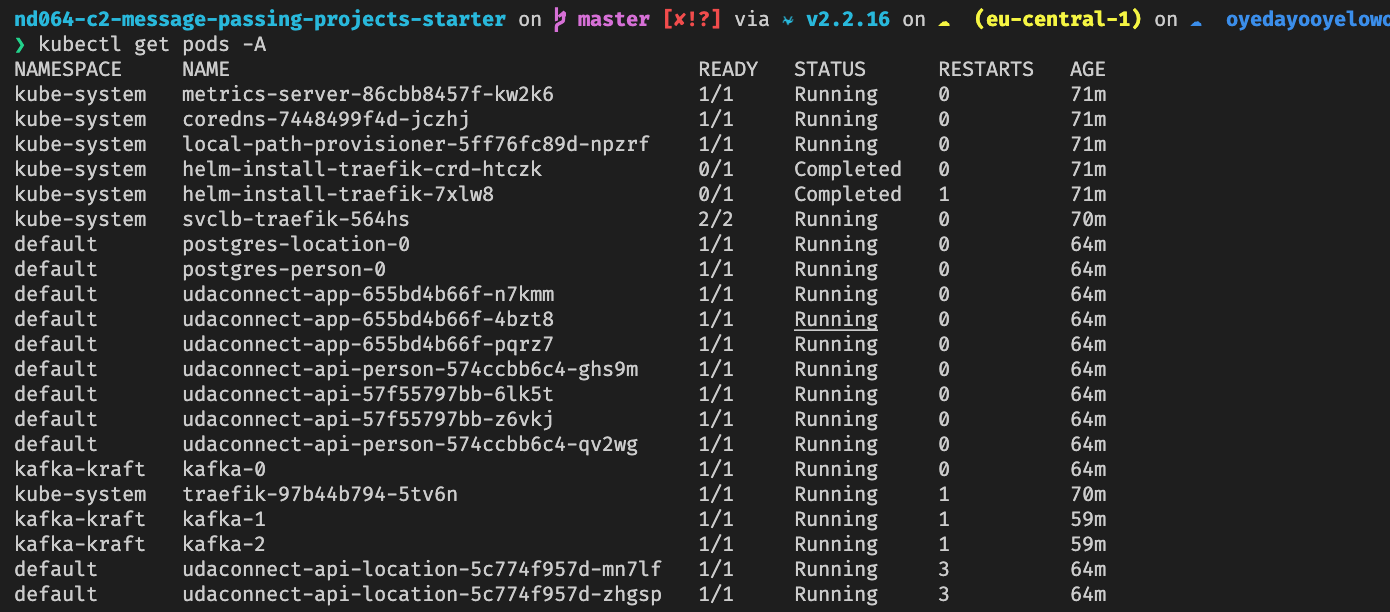
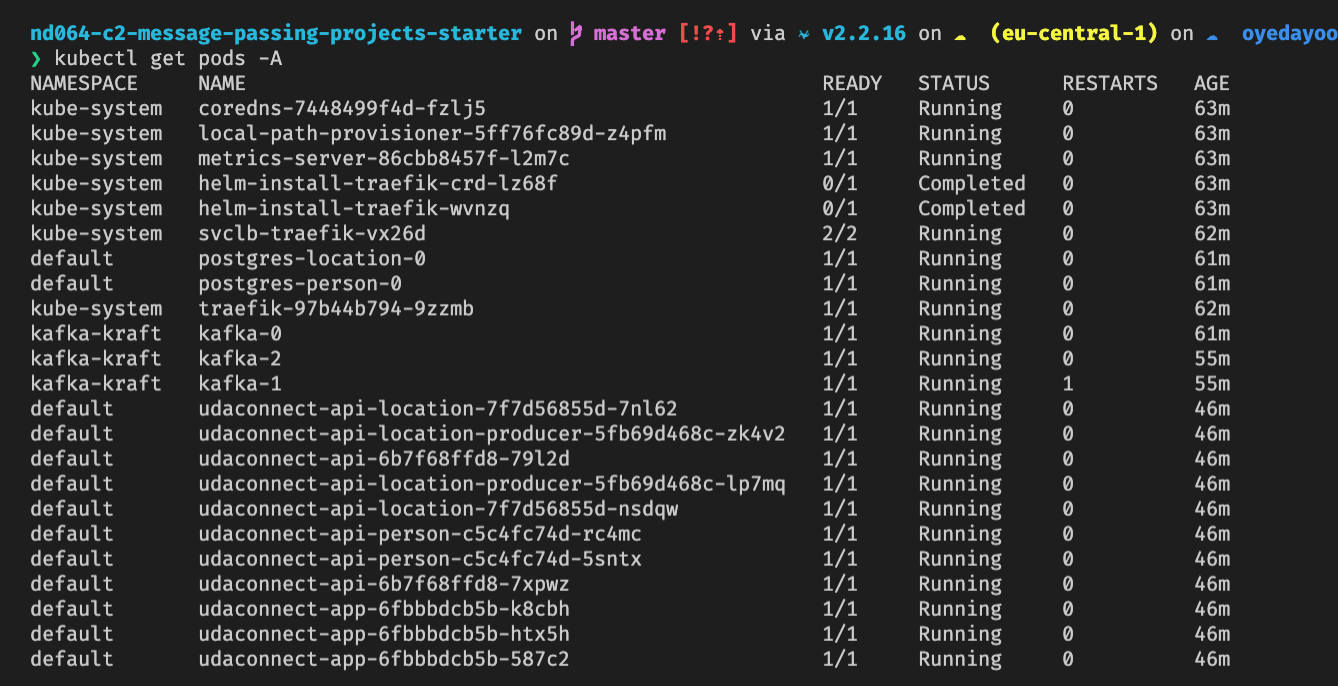
Add more info

Changed region(s): [[0.0, 0.0, 1.0, 0.9935], [0.8886, 0.0931, 0.9193, 0.9935]]

diff --git a/modules/location-producer/app/client_test.py b/modules/location-producer/app/client_test.py
@@ -22,8 +22,8 @@ location_stub = location_pb2_grpc.LocationServiceStub(channel)
 
 location_request = location_pb2.CreateLocationRequest(
     person_id = 1,
-    longitude = 64,
-    latitude = 22,
+    longitude = "64",
+    latitude = "22",
 )
 response = location_stub.CreateLocation(location_request)
 

diff --git a/README.md b/README.md
@@ -99,9 +99,35 @@ curl -X POST -H "Content-Type: application/json" \
 "http://localhost:30001/api/persons"
 ```
 
-- Create location. This sends the location to kafka via the api and the location service subscribes to the location topics to save incoming location to its postgres
+- Create location
+  This sends location payload to the location producer service which is a grpc server that in turn sends the location data formatted as JSON into the `location` kafka topic. This topic is subsequently consumed  the location service which stores the data in the postgres database.
+
+  This was previously handled by the rest API server but has since been changed to handle higher location data traffic.
 
 ```sh
+python3 modules/location-producer/app/client_test.py 
+
+# You can also send plenty location data for testing:
+for i in {1..10000}
+    do
+    # your-unix-command-here
+    echo $i
+    python3 modules/location-producer/app/client_test.py 
+done
+
+# This does the sending to the GRPC location producer service, e.g
+# location_request = location_pb2.CreateLocationRequest(
+#     person_id = 1,
+#     longitude = "63",
+#     latitude = "21",
+# )
+# response = location_stub.CreateLocation(location_request)
+```
+
+__OLD__: _But still works and kept for reference purpose_
+
+```sh
+# OLD But still works and kept for reference purpose
 curl -X POST -H "Content-Type: application/json" \
  -d '{"person_id": 1,"longitude":"24.9384", "latitude":"60.1699"}' \
 "http://localhost:30001/api/locations"
@@ -115,7 +141,6 @@ for i in {1..10000}
     -d '{"person_id": 3,"longitude":"24.9384", "latitude":"60.1699"}' \
     "http://localhost:30001/api/locations"
 done
-
 ```
 
 ## Postgres DB client
